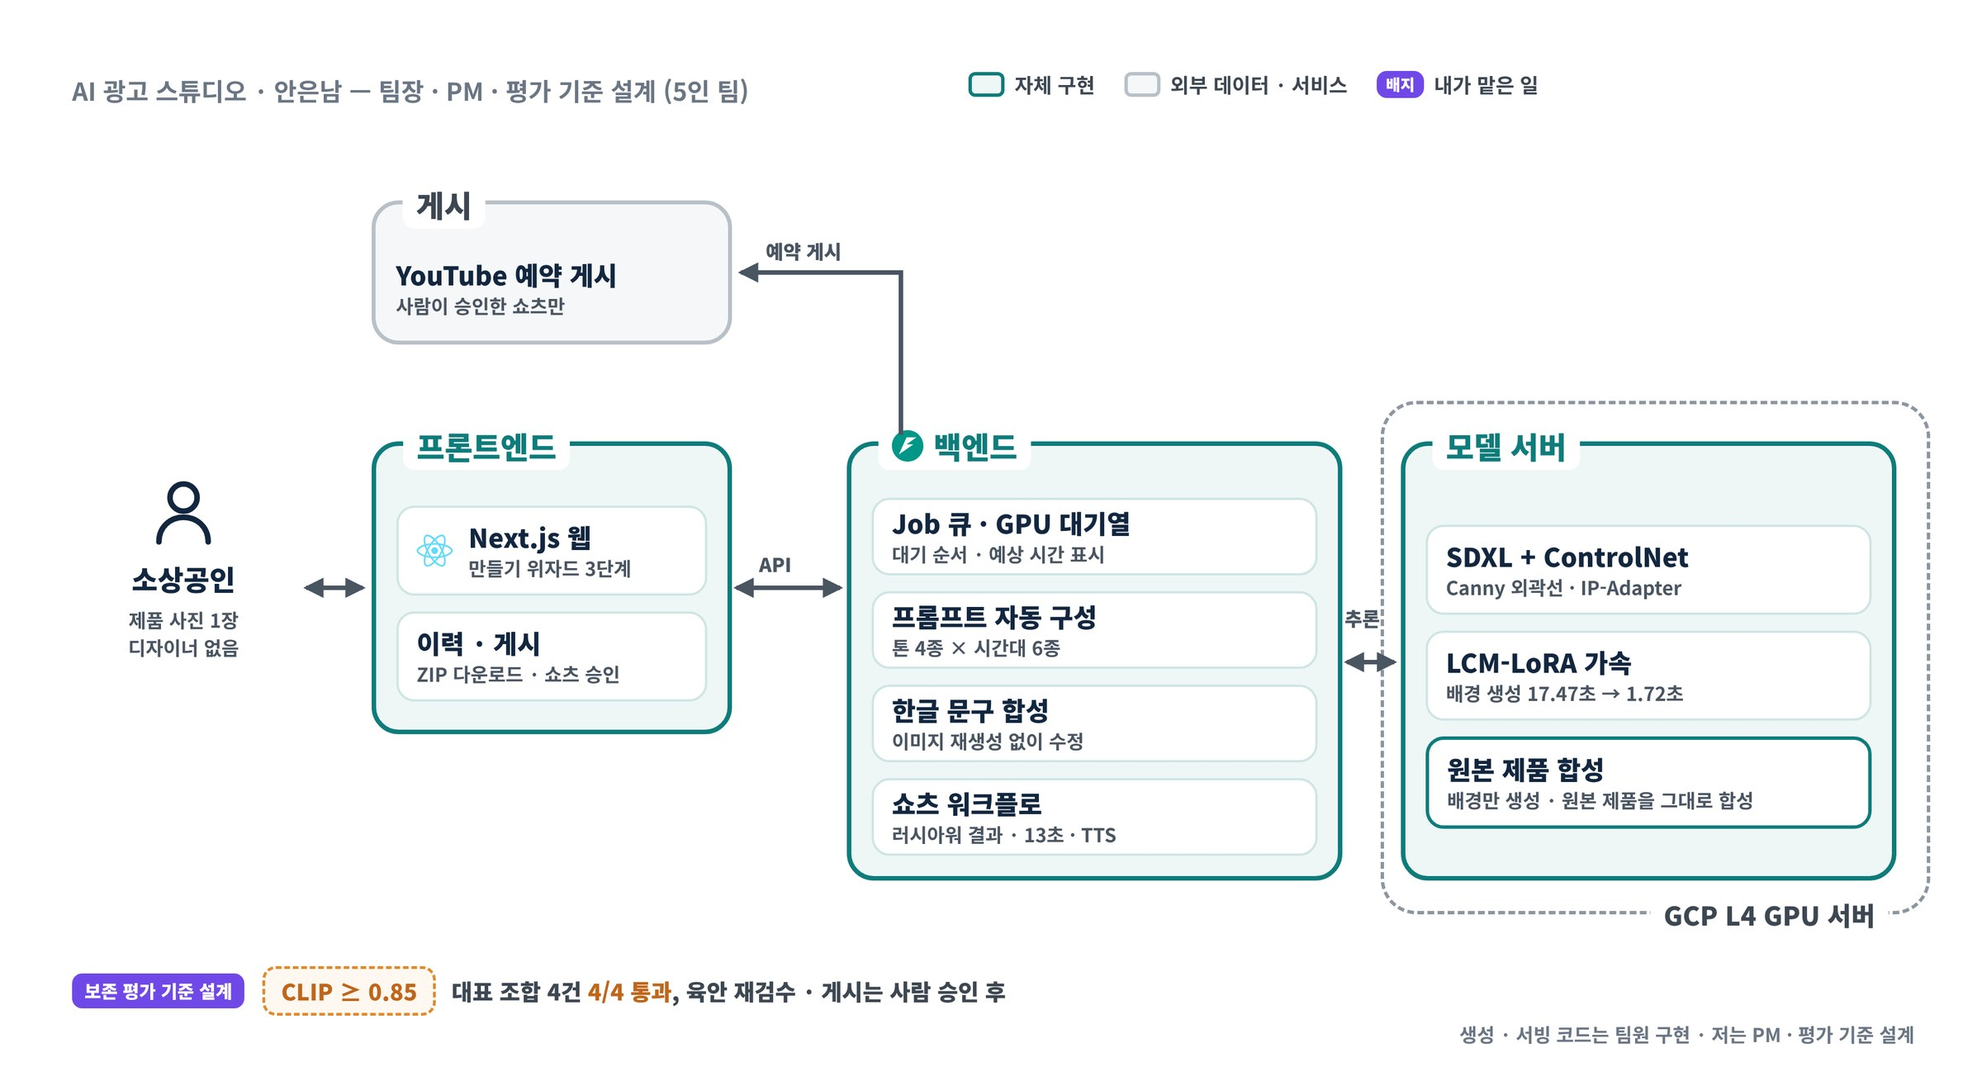
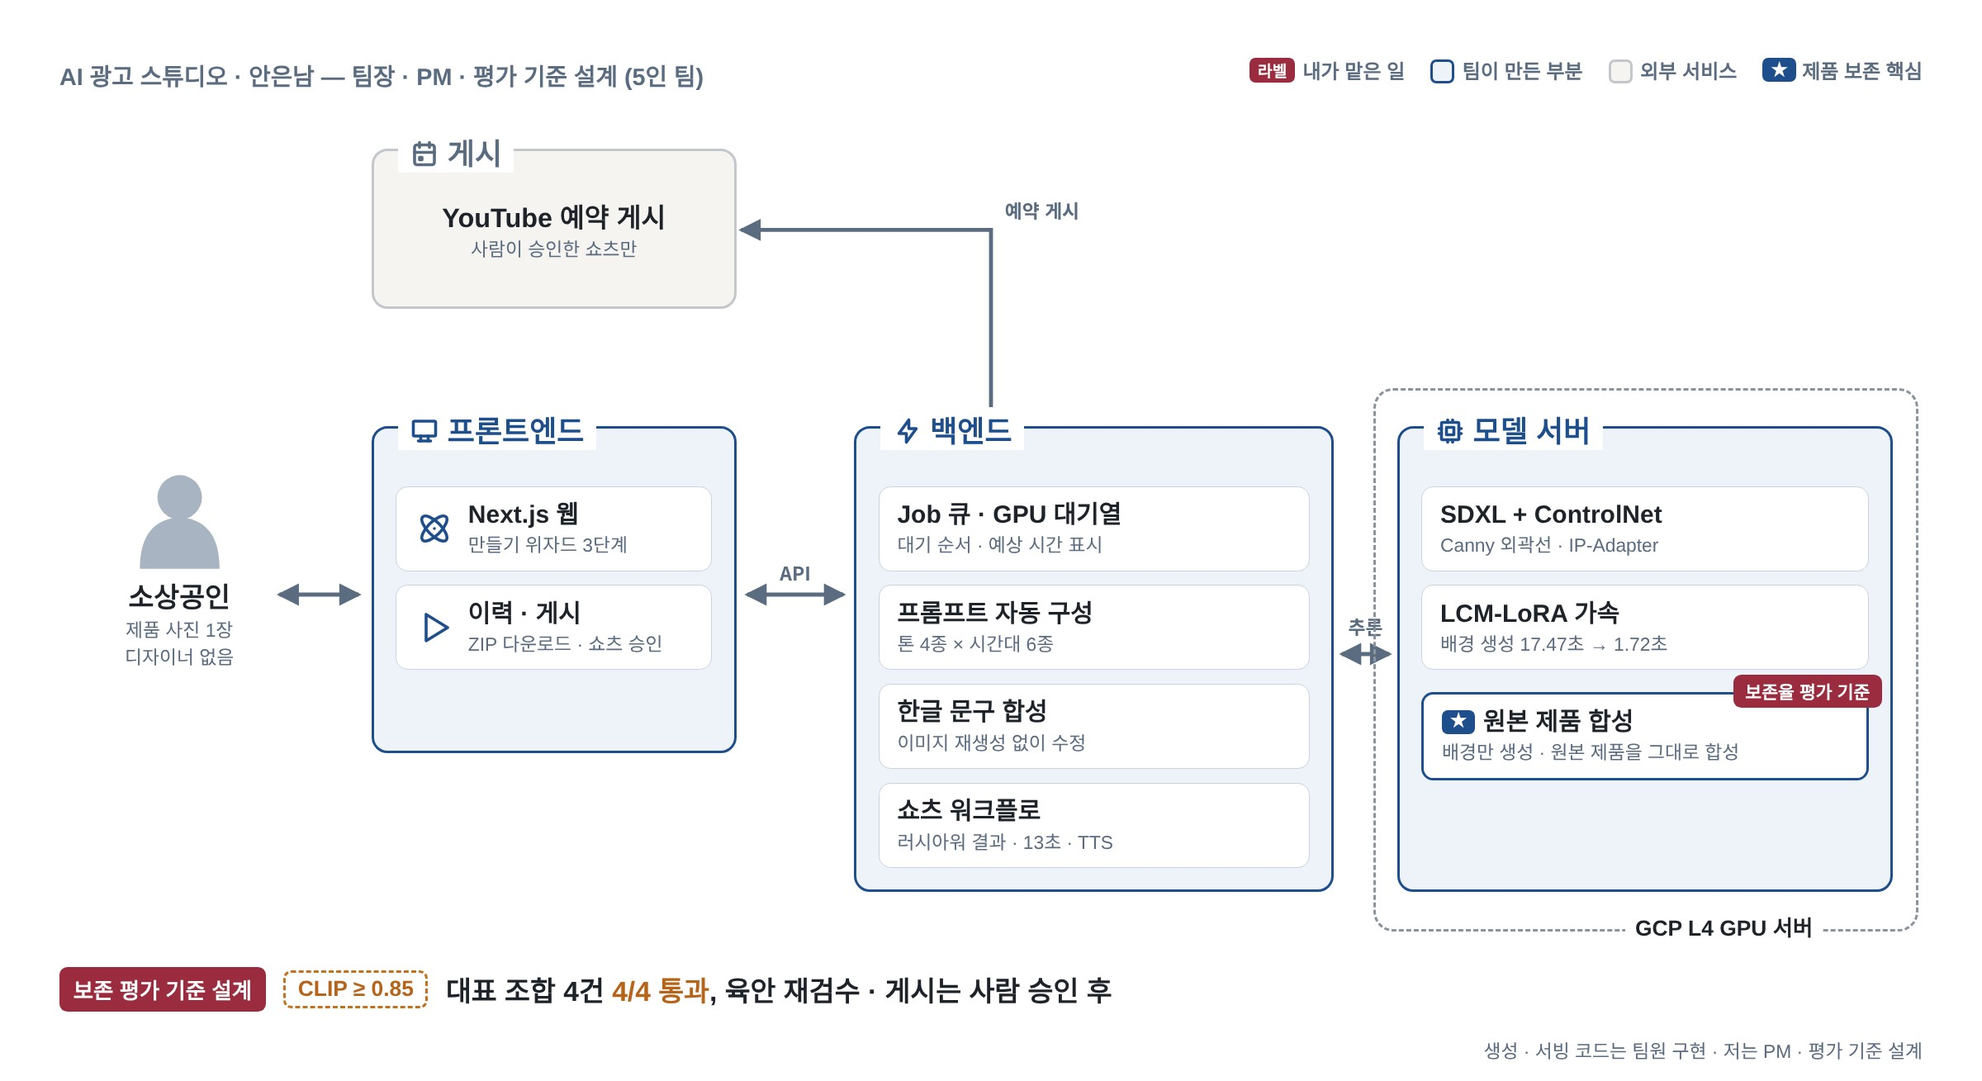
아키텍처 그림 교체: 내 담당을 버건디 라벨로, 사실관계 정정
Claude-Session: https://claude.ai/code/session_01Lz9Js6jZwZK7FRrYVWGqWX

diff --git a/projects/savers.html b/projects/savers.html
@@ -39,8 +39,8 @@
  <h2>화면</h2>
  <figure class="shot"><img src="../assets/proj_savers_screens.jpg" alt="서비스 화면: 알림 링크 진입 → 대피소 안내 → 경로와 도착 확인" loading="lazy"><figcaption>서비스 화면: 알림 링크 진입 → 대피소 안내 → 경로와 도착 확인</figcaption></figure>
  <h2>시스템 구조</h2><p class="archcap">규칙 코드가 판단하고 LLM은 설명하는 구조</p>
- <div class="arch"><img src="../assets/arch_savers.jpg" alt="SAVERS 시스템 아키텍처. 보라색 배지는 내가 맡은 일" loading="lazy"></div>
- <p class="archnote">보라색 배지가 제가 맡은 부분입니다. 이미지를 누르면 크게 볼 수 있습니다.</p>
+ <div class="arch"><img src="../assets/arch_savers.jpg" alt="SAVERS 시스템 아키텍처. 버건디 라벨은 내가 맡은 일" loading="lazy"></div>
+ <p class="archnote">버건디 라벨이 제가 맡은 부분입니다. 이미지를 누르면 크게 볼 수 있습니다.</p>
  <h2>구조 결정</h2>
  <div class="dec"><h3>1. 판단은 규칙 코드, LLM은 설명만</h3><p><b>왜:</b> LLM이 대피소나 경로를 만들면 환각이 곧 안전 사고가 됩니다.</p><p><b>바꾼 구조:</b> 위험 판정은 기상청과 홍수통제소의 공식 판정을 그대로 쓰고, 대피소와 침수 회피 경로는 OSMnx·NetworkX 규칙 코드가 정합니다. LLM은 정해진 결과를 설명만 하고, 보호자 응답은 이벤트 기록만 근거로 씁니다.</p><p><b>결과:</b> 팀원이 만든 검증기는 답변을 주장 단위로 쪼개 기록과 대조합니다. 저는 이 검증기를 검증하는 평가셋을 만들었고, 통과 기준은 기록에 없는 내용 0건입니다.</p></div><div class="dec"><h3>2. 답할 때와 거절할 때를 모두 잰다</h3><p><b>왜:</b> 근거 일치 지표만 보면 엉뚱한 근거로 답하는 실패가 드러나지 않습니다.</p><p><b>바꾼 구조:</b> 답해야 할 질문 28건과 거절해야 할 대조군 6건으로 거절 프로브를 만들어 양쪽을 따로 쟀습니다.</p><p><b>결과:</b> 불필요한 거절은 1/28로 낮았지만 대조군 6건에는 모두 답했습니다. 원인이 검증기가 아니라 앞단 검색에 있음을 추적하고 재현 방법과 함께 문서로 남겼습니다.</p></div><div class="dec"><h3>3. 팀원이 빠진 뒤 최소 기능부터</h3><p><b>왜:</b> 개발 도중 팀원이 중도 하차해, 남은 4명이 맡은 일을 다시 나눠야 했습니다.</p><p><b>바꾼 구조:</b> 웹푸시 실발송, 침수 회피 경로, 보호자 확인을 먼저 만들고 공공 API 실시간 수집은 대회 이후 과제로 미뤘습니다.</p><p><b>결과:</b> 리뷰를 거친 코드 변경 240여 건을 합쳐 기간 안에 완성했고, 326팀 중 공동 3위로 고용노동부장관상을 받았습니다.</p></div>
  <h2>한계</h2>

diff --git a/en/projects/savers.html b/en/projects/savers.html
@@ -39,8 +39,8 @@
  <h2>Screens</h2>
  <figure class="shot"><img src="../../assets/proj_savers_screens.jpg" alt="Service screens: alert link → shelter guidance → route and arrival check (UI in Korean)" loading="lazy"><figcaption>Service screens: alert link → shelter guidance → route and arrival check (UI in Korean)</figcaption></figure>
  <h2>System architecture</h2><p class="archcap">Rule-based code decides, the LLM explains</p>
- <div class="arch"><img src="../../assets/arch_savers.jpg" alt="SAVERS system architecture; purple badges mark the parts I owned" loading="lazy"></div>
- <p class="archnote">Purple badges mark the parts I owned. Click the image to enlarge it. (Diagram in Korean.)</p>
+ <div class="arch"><img src="../../assets/arch_savers.jpg" alt="SAVERS system architecture; Burgundy labels mark the parts I owned" loading="lazy"></div>
+ <p class="archnote">Burgundy labels mark the parts I owned. Click the image to enlarge it. (Diagram in Korean.)</p>
  <h2>Key decisions</h2>
  <div class="dec"><h3>1. Rule-based code decides, the LLM only explains</h3><p><b>Why:</b> If an LLM produced shelters or routes, a hallucination would become a safety incident.</p><p><b>What changed:</b> Risk levels come straight from the official KMA and flood-control alerts; shelters and flood-avoiding routes come from OSMnx / NetworkX rule-based code. The LLM only explains fixed results, and guardian replies use the event log as their only evidence.</p><p><b>Result:</b> A teammate's verifier splits each answer into claims and checks them against the log. I built the evaluation set that tests the verifier, with a pass bar of zero unsupported claims.</p></div><div class="dec"><h3>2. Measure both answering and refusing</h3><p><b>Why:</b> Grounding scores alone miss answers built on unrelated evidence.</p><p><b>What changed:</b> A refusal probe with 28 questions that should be answered and 6 controls that should be refused measured both directions separately.</p><p><b>Result:</b> Wrong refusals were low at 1/28, but all 6 controls were answered. I traced the cause to retrieval rather than the verifier and documented it with steps to reproduce.</p></div><div class="dec"><h3>3. After teammates left, ship the minimum first</h3><p><b>Why:</b> Teammates left mid-development, and the remaining four had to split the work again.</p><p><b>What changed:</b> Real web-push sending, flood-avoiding routes and guardian check-in came first; real-time public-API ingestion was moved to after the competition.</p><p><b>Result:</b> We merged about 240 reviewed code changes, finished on time and won the Minister of Employment and Labor Award, joint 3rd of 326 teams.</p></div>
  <h2>Limitations</h2>

diff --git a/projects/bidmate.html b/projects/bidmate.html
@@ -39,8 +39,8 @@
  <h2>화면</h2>
  <figure class="shot"><img src="../assets/proj_bidmate_screen.jpg" alt="서비스 화면: RFP 핵심 요약 답변과 근거 출처 (가운데 일부 생략)" loading="lazy"><figcaption>서비스 화면: RFP 핵심 요약 답변과 근거 출처 (가운데 일부 생략)</figcaption></figure>
  <h2>시스템 구조</h2><p class="archcap">인덱싱, 서빙, 평가 루프로 나눈 구조</p>
- <div class="arch"><img src="../assets/arch_bidmate.jpg" alt="입찰메이트 시스템 아키텍처. 보라색 배지는 내가 맡은 일" loading="lazy"></div>
- <p class="archnote">보라색 배지가 제가 맡은 부분입니다. 이미지를 누르면 크게 볼 수 있습니다.</p>
+ <div class="arch"><img src="../assets/arch_bidmate.jpg" alt="입찰메이트 시스템 아키텍처. 버건디 라벨은 내가 맡은 일" loading="lazy"></div>
+ <p class="archnote">버건디 라벨이 제가 맡은 부분입니다. 이미지를 누르면 크게 볼 수 있습니다.</p>
  <h2>구조 결정</h2>
  <div class="dec"><h3>1. 점수가 멈추면 측정부터 의심한다</h3><p><b>왜:</b> Hit@k가 0.3에서 오래 멈춰 있었고, 모델과 설정만 바꿔서는 오르지 않았습니다.</p><p><b>바꾼 구조:</b> 틀린 문항을 하나씩 열어 보니 검색은 맞는 문서를 가져오고 있었고, 제가 만든 골든셋의 정답 파일명이 잘못되어 있었습니다.</p><p><b>결과:</b> 골든셋을 바로잡자 1.0이 되었습니다. 이후로는 점수가 이상하면 틀린 문항부터 직접 엽니다.</p></div><div class="dec"><h3>2. 근거 수보다 입력 창</h3><p><b>왜:</b> 근거를 4건에서 12건으로 늘리자 5개 유형 평균 점수가 81.9점에서 40.7점으로 떨어졌습니다.</p><p><b>바꾼 구조:</b> 변수를 하나씩 바꿔 보니 근거가 모델 입력 창(4,096토큰)을 넘어 잘리고 있었습니다. 같은 설정에서 k=4, 8, 12가 81.9, 46.1, 40.7점이었습니다.</p><p><b>결과:</b> 근거 4건과 8,192토큰 입력 창으로 확정해 같은 조건 비교에서 82.8점을 얻었습니다.</p></div><div class="dec"><h3>3. 외부 API 없이 로컬 스택으로</h3><p><b>왜:</b> 공공 문서를 다루는 만큼 외부 API 없이 돌아가야 했고, 비용도 줄여야 했습니다.</p><p><b>바꾼 구조:</b> OpenAI 대신 KURE-v1 임베딩과 EXAONE 3.5를 GCP VM의 Ollama로 돌렸습니다.</p><p><b>결과:</b> 평균 3.6초에 답하고 외부 API 비용은 0원입니다. 효과 없이 응답만 21초 늦추던 리랭커는 뺐습니다.</p></div>
  <h2>한계</h2>

diff --git a/en/projects/bidmate.html b/en/projects/bidmate.html
@@ -39,8 +39,8 @@
  <h2>Screens</h2>
  <figure class="shot"><img src="../../assets/proj_bidmate_screen.jpg" alt="Service screen: RFP summary with the cited source (middle trimmed; UI in Korean)" loading="lazy"><figcaption>Service screen: RFP summary with the cited source (middle trimmed; UI in Korean)</figcaption></figure>
  <h2>System architecture</h2><p class="archcap">Indexing, serving and an evaluation loop</p>
- <div class="arch"><img src="../../assets/arch_bidmate.jpg" alt="BidMate system architecture; purple badges mark the parts I owned" loading="lazy"></div>
- <p class="archnote">Purple badges mark the parts I owned. Click the image to enlarge it. (Diagram in Korean.)</p>
+ <div class="arch"><img src="../../assets/arch_bidmate.jpg" alt="BidMate system architecture; Burgundy labels mark the parts I owned" loading="lazy"></div>
+ <p class="archnote">Burgundy labels mark the parts I owned. Click the image to enlarge it. (Diagram in Korean.)</p>
  <h2>Key decisions</h2>
  <div class="dec"><h3>1. When a score stalls, check the measurement first</h3><p><b>Why:</b> Hit@k sat at 0.3 for a long time and changing models and settings did not move it.</p><p><b>What changed:</b> Opening the failed questions one by one showed retrieval was finding the right documents; the answer file names in my golden set were wrong.</p><p><b>Result:</b> Fixing the golden set took it to 1.0. Since then, when a score looks wrong I open the failed cases first.</p></div><div class="dec"><h3>2. The context window matters more than the evidence count</h3><p><b>Why:</b> Raising evidence from 4 to 12 chunks dropped the 5-type average from 81.9 to 40.7.</p><p><b>What changed:</b> Changing one variable at a time showed evidence was being cut off past the 4,096-token context; with the same settings, k=4, 8 and 12 scored 81.9, 46.1 and 40.7.</p><p><b>Result:</b> Settling on 4 chunks and an 8,192-token context scored 82.8 in a like-for-like comparison.</p></div><div class="dec"><h3>3. A local stack with no external API</h3><p><b>Why:</b> Public documents called for no external API, and costs had to come down.</p><p><b>What changed:</b> Replaced OpenAI with KURE-v1 embeddings and EXAONE 3.5 on Ollama on a GCP VM.</p><p><b>Result:</b> Mean latency 3.6 s with no external API cost. A reranker that added 21 s for no gain was removed.</p></div>
  <h2>Limitations</h2>

diff --git a/projects/adstudio.html b/projects/adstudio.html
@@ -39,8 +39,8 @@
  <h2>화면</h2>
  <figure class="shot"><img src="../assets/proj_ad-studio_screen.jpg" alt="서비스 화면: 원본 제품은 그대로 두고 배경만 바꾼 톤별 광고 시안과 문구 편집" loading="lazy"><figcaption>서비스 화면: 원본 제품은 그대로 두고 배경만 바꾼 톤별 광고 시안과 문구 편집</figcaption></figure>
  <h2>시스템 구조</h2><p class="archcap">생성 파이프라인과 제품 보존 검사 구조</p>
- <div class="arch"><img src="../assets/arch_adstudio.jpg" alt="AI 광고 스튜디오 시스템 아키텍처. 보라색 배지는 내가 맡은 일" loading="lazy"></div>
- <p class="archnote">보라색 배지가 제가 맡은 부분입니다. 이미지를 누르면 크게 볼 수 있습니다.</p>
+ <div class="arch"><img src="../assets/arch_adstudio.jpg" alt="AI 광고 스튜디오 시스템 아키텍처. 버건디 라벨은 내가 맡은 일" loading="lazy"></div>
+ <p class="archnote">버건디 라벨이 제가 맡은 부분입니다. 이미지를 누르면 크게 볼 수 있습니다.</p>
  <h2>구조 결정</h2>
  <div class="dec"><h3>1. 제품이 바뀌면 광고가 아니다</h3><p><b>왜:</b> 생성 모델은 배경을 바꾸면서 제품 모양이나 라벨까지 바꿀 수 있습니다.</p><p><b>바꾼 구조:</b> 원본 제품을 생성한 배경 위에 합성해 제품을 지키고, 제품 영역의 CLIP 유사도가 0.85 이상인지 검사한 뒤 사람이 다시 확인하게 했습니다.</p><p><b>결과:</b> 대표 조합 4건이 모두 통과했습니다.</p></div><div class="dec"><h3>2. 사람이 승인한 것만 게시</h3><p><b>왜:</b> 자동으로 만든 결과를 그대로 올리면 잘못된 광고가 나갈 수 있습니다.</p><p><b>바꾼 구조:</b> 사람이 승인한 이미지만 13초 쇼츠로 만들어 YouTube에 예약 게시하게 했습니다.</p><p><b>결과:</b> 팀 자동화 테스트 486건을 통과했습니다.</p></div>
  <h2>한계</h2>

diff --git a/en/projects/adstudio.html b/en/projects/adstudio.html
@@ -39,8 +39,8 @@
  <h2>Screens</h2>
  <figure class="shot"><img src="../../assets/proj_ad-studio_screen.jpg" alt="Service screen: tone-specific drafts that keep the original product and change only the background, with copy editing (UI in Korean)" loading="lazy"><figcaption>Service screen: tone-specific drafts that keep the original product and change only the background, with copy editing (UI in Korean)</figcaption></figure>
  <h2>System architecture</h2><p class="archcap">Generation pipeline with a product-preservation check</p>
- <div class="arch"><img src="../../assets/arch_adstudio.jpg" alt="AI Ad Studio system architecture; purple badges mark the parts I owned" loading="lazy"></div>
- <p class="archnote">Purple badges mark the parts I owned. Click the image to enlarge it. (Diagram in Korean.)</p>
+ <div class="arch"><img src="../../assets/arch_adstudio.jpg" alt="AI Ad Studio system architecture; Burgundy labels mark the parts I owned" loading="lazy"></div>
+ <p class="archnote">Burgundy labels mark the parts I owned. Click the image to enlarge it. (Diagram in Korean.)</p>
  <h2>Key decisions</h2>
  <div class="dec"><h3>1. If the product changes, it is not an ad</h3><p><b>Why:</b> Generative models can alter a product's shape or label while changing the background.</p><p><b>What changed:</b> The original product is composited onto the generated background, checked for masked-region CLIP similarity ≥ 0.85, then reviewed by a person.</p><p><b>Result:</b> All 4 representative cases passed.</p></div><div class="dec"><h3>2. Publish only what a person approved</h3><p><b>Why:</b> Posting generated results automatically could put out a wrong ad.</p><p><b>What changed:</b> Only human-approved images become 13-second Shorts scheduled to YouTube.</p><p><b>Result:</b> The team's 486 automated tests passed.</p></div>
  <h2>Limitations</h2>

diff --git a/projects/pillscope.html b/projects/pillscope.html
@@ -39,8 +39,8 @@
  <h2>화면</h2>
  <figure class="shot"><img src="../assets/proj_pillscope.jpg" alt="왼쪽 정답, 오른쪽 모델 예측 · 희귀 클래스(큐시드정)까지 탐지" loading="lazy"><figcaption>왼쪽 정답, 오른쪽 모델 예측 · 희귀 클래스(큐시드정)까지 탐지</figcaption></figure>
  <h2>시스템 구조</h2><p class="archcap">학습 파이프라인과 서비스를 연결한 구조</p>
- <div class="arch"><img src="../assets/arch_pillscope.jpg" alt="PillScope 시스템 아키텍처. 보라색 배지는 내가 맡은 일" loading="lazy"></div>
- <p class="archnote">보라색 배지가 제가 맡은 부분입니다. 이미지를 누르면 크게 볼 수 있습니다.</p>
+ <div class="arch"><img src="../assets/arch_pillscope.jpg" alt="PillScope 시스템 아키텍처. 버건디 라벨은 내가 맡은 일" loading="lazy"></div>
+ <p class="archnote">버건디 라벨이 제가 맡은 부분입니다. 이미지를 누르면 크게 볼 수 있습니다.</p>
  <h2>구조 결정</h2>
  <div class="dec"><h3>1. 점수가 부풀지 않게 split부터</h3><p><b>왜:</b> 촬영 옵션만 다른 비슷한 사진이 학습과 검증에 나뉘어 들어가면 점수가 실제보다 높게 나옵니다.</p><p><b>바꾼 구조:</b> 비슷한 사진을 같은 split으로 묶었습니다.</p><p><b>결과:</b> 검증 점수를 믿고 모델을 비교할 수 있게 됐습니다.</p></div><div class="dec"><h3>2. 데이터가 적은 알약을 직접 늘린다</h3><p><b>왜:</b> 한 번도 찾지 못하는 희귀 알약이 있었습니다.</p><p><b>바꾼 구조:</b> 데이터가 적은 알약을 오려 붙이고, 인터넷 알약 이미지를 대회 배경에 합성했습니다.</p><p><b>결과:</b> 학습 이미지가 1,026장이 됐고 희귀 알약까지 탐지했습니다.</p></div>
  <h2>한계</h2>

diff --git a/en/projects/pillscope.html b/en/projects/pillscope.html
@@ -39,8 +39,8 @@
  <h2>Screens</h2>
  <figure class="shot"><img src="../../assets/proj_pillscope.jpg" alt="Ground truth (left) vs. model prediction (right); the rare class is detected too" loading="lazy"><figcaption>Ground truth (left) vs. model prediction (right); the rare class is detected too</figcaption></figure>
  <h2>System architecture</h2><p class="archcap">Training pipeline connected to the service</p>
- <div class="arch"><img src="../../assets/arch_pillscope.jpg" alt="PillScope system architecture; purple badges mark the parts I owned" loading="lazy"></div>
- <p class="archnote">Purple badges mark the parts I owned. Click the image to enlarge it. (Diagram in Korean.)</p>
+ <div class="arch"><img src="../../assets/arch_pillscope.jpg" alt="PillScope system architecture; Burgundy labels mark the parts I owned" loading="lazy"></div>
+ <p class="archnote">Burgundy labels mark the parts I owned. Click the image to enlarge it. (Diagram in Korean.)</p>
  <h2>Key decisions</h2>
  <div class="dec"><h3>1. Fix the split before trusting the score</h3><p><b>Why:</b> Near-duplicate shots split across training and validation inflate the score.</p><p><b>What changed:</b> Grouped near-duplicate shots into the same split.</p><p><b>Result:</b> Validation scores became trustworthy enough to compare models.</p></div><div class="dec"><h3>2. Grow the rare pills directly</h3><p><b>Why:</b> Some rare pills were never detected.</p><p><b>What changed:</b> Cropped and pasted under-represented pills and composited web pill images onto the competition background.</p><p><b>Result:</b> The training set grew to 1,026 images and the rare pills became detectable.</p></div>
  <h2>Limitations</h2>

diff --git a/_tools/build_site.py b/_tools/build_site.py
@@ -135,8 +135,8 @@ KO = {
     "back": "프로젝트 목록", "code_h": "직접 작성한 코드", "prev": "이전", "next": "다음",
     "h_work": "내가 맡은 일", "h_mets": "성과", "h_shot": "화면", "h_arch": "시스템 구조", "h_decs": "구조 결정", "h_limit": "한계",
     "kv": ("역할", "기간", "팀"), "dec_k": ("왜:", "바꾼 구조:", "결과:"),
-    "arch_note": "보라색 배지가 제가 맡은 부분입니다. 이미지를 누르면 크게 볼 수 있습니다.",
-    "arch_alt": "시스템 아키텍처. 보라색 배지는 내가 맡은 일",
+    "arch_note": "버건디 라벨이 제가 맡은 부분입니다. 이미지를 누르면 크게 볼 수 있습니다.",
+    "arch_alt": "시스템 아키텍처. 버건디 라벨은 내가 맡은 일",
     "P": {
         "savers": dict(title="SAVERS", sub="재난 취약계층 맞춤 대피 안내", when="2026.07 – 2026.09", org="K-디지털 트레이닝 해커톤 2026", team="4인 팀", role="팀장 · PM · 평가와 인프라",
             award="고용노동부장관상 · 326팀 중 공동 3위 · ACK 2026 제1저자",
@@ -276,8 +276,8 @@ EN = {
     "back": "All projects", "code_h": "Code I wrote", "prev": "Previous", "next": "Next",
     "h_work": "What I did", "h_mets": "Results", "h_shot": "Screens", "h_arch": "System architecture", "h_decs": "Key decisions", "h_limit": "Limitations",
     "kv": ("Role", "Period", "Team"), "dec_k": ("Why:", "What changed:", "Result:"),
-    "arch_note": "Purple badges mark the parts I owned. Click the image to enlarge it. (Diagram in Korean.)",
-    "arch_alt": "system architecture; purple badges mark the parts I owned",
+    "arch_note": "Burgundy labels mark the parts I owned. Click the image to enlarge it. (Diagram in Korean.)",
+    "arch_alt": "system architecture; Burgundy labels mark the parts I owned",
     "P": {
         "savers": dict(title="SAVERS", sub="Evacuation guidance for disaster-vulnerable residents", when="Jul – Sep 2026", org="K-Digital Training Hackathon 2026", team="Team of 4", role="Team lead · PM · Evaluation & infra",
             award="Minister of Employment and Labor Award · joint 3rd of 326 teams · first author, ACK 2026",
